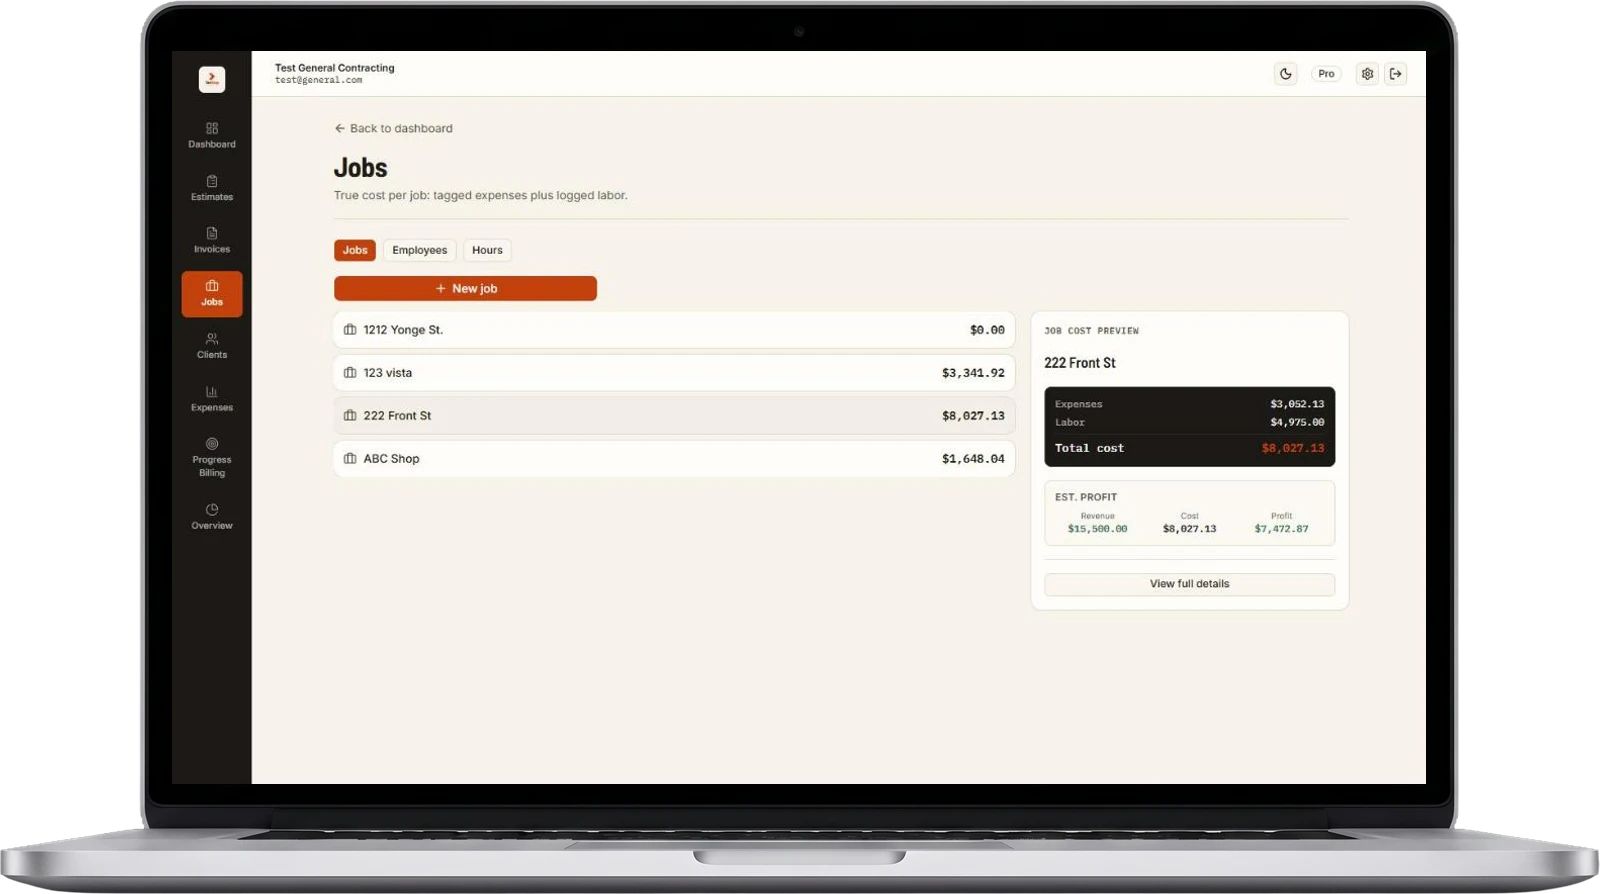
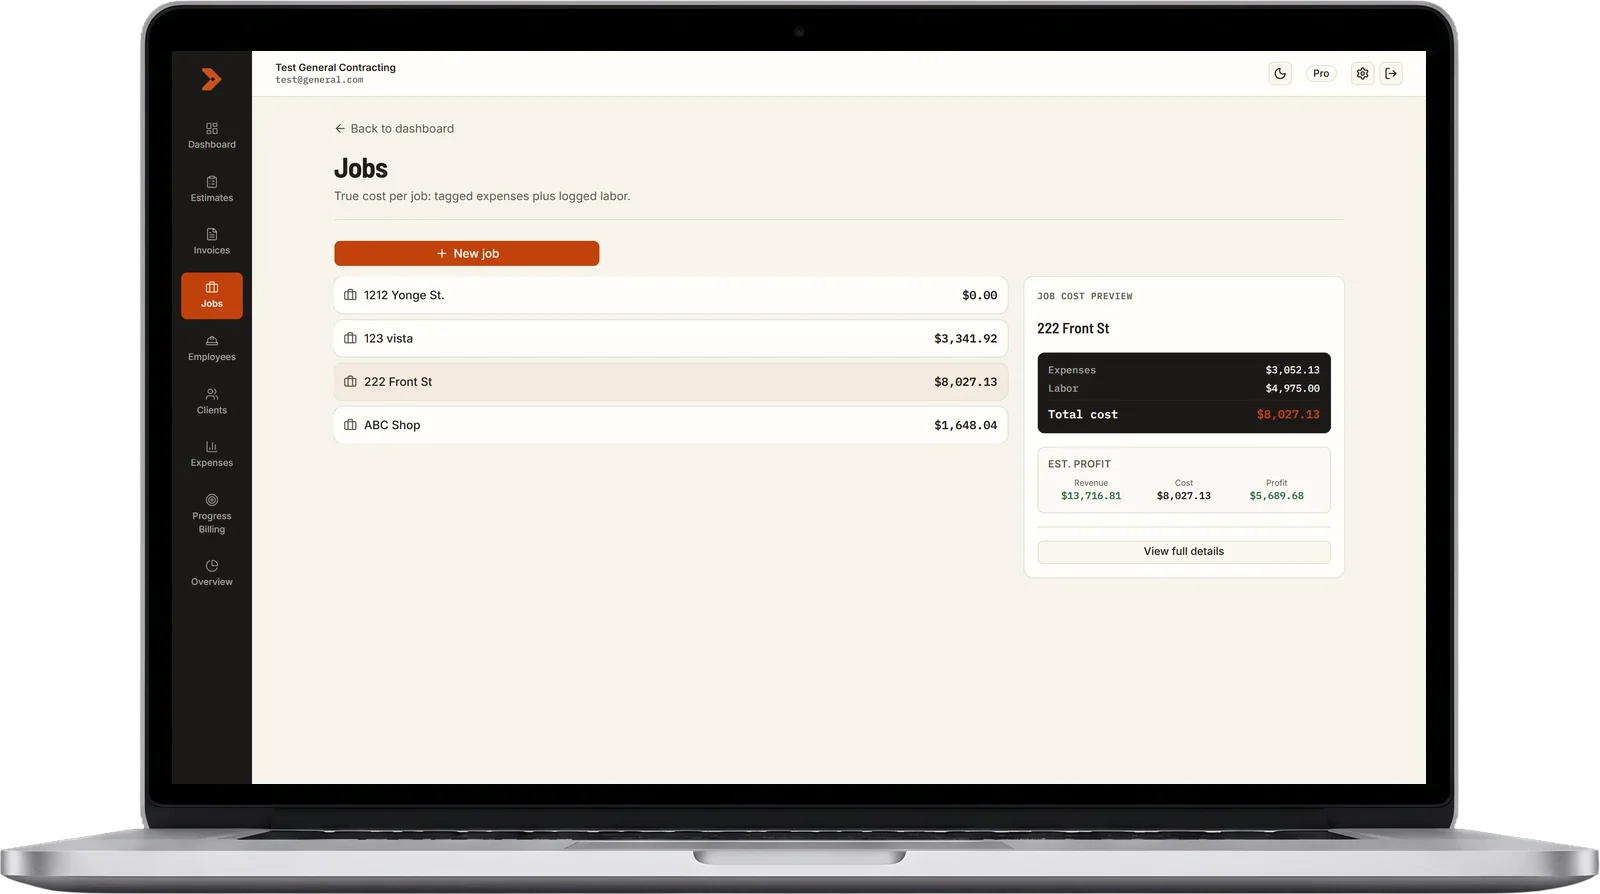
feat: marketing site - Employee Clock-In, 3x2 feature grid, refreshed Job Costing
- Homepage feature grid is now 3 x 2 on desktop with six cards: adds
  "Employee clock-in" and "Deposits & partial payments" to the existing four.
- New /features/employee-clock-in page, added to the shared FEATURE_PAGES
  list right after Job Costing, so it appears in the Features dropdown and
  the /features index (whose odd last card now spans the full row).
  FeatureDetail gets a hideScreenshot option that skips the screenshot block
  entirely (no placeholder) for pages without real screenshots yet.
- "Included on every plan" notes for Employee Clock-In and Job Costing are
  built from PLAN_LIMITS via plan-cap-copy.ts (unit-tested), so the wording
  can't drift from the enforced caps. Job Costing previously said "Available
  on the Pro plan", which contradicted the pricing table (every plan, capped
  at 1 / 5 / unlimited jobs).
- Job Costing screenshots retaken against the current app (Employees tab in
  the sidebar, no Jobs/Employees/Hours toggle): the new capture is composited
  into the existing laptop and phone frames; the phone's header and bottom bar
  are unchanged so only its content area was replaced. Alt text no longer
  mentions the old tabs.

Verified in the browser: homepage grid (3 columns, 6 cards), /features index
and dropdown (7 entries, correct order), the new page (no screenshot block),
Job Costing mobile and desktop images, and that the HST and Accountant Export
pages still render their screenshots.

diff --git a/src/app/features/employee-clock-in/page.tsx b/src/app/features/employee-clock-in/page.tsx
@@ -1,0 +1,53 @@
+import type { Metadata } from "next";
+import { Clock } from "lucide-react";
+import { FeatureDetail } from "@/components/landing/feature-detail";
+import { PLAN_LIMITS } from "@/lib/plan-limits";
+import { everyPlanCapNote } from "@/lib/plan-cap-copy";
+
+export const metadata: Metadata = {
+  title: "Employee Clock-In — TaxSnap",
+};
+
+export default function EmployeeClockInPage() {
+  return (
+    <FeatureDetail
+      icon={Clock}
+      title="Employee Clock-In"
+      tagline="Your crew logs their own hours, and you get accurate labor cost on every job without typing a number."
+      note={everyPlanCapNote("employee", {
+        free: PLAN_LIMITS.free.employees,
+        basic: PLAN_LIMITS.basic.employees,
+        pro: PLAN_LIMITS.pro.employees,
+      })}
+      // No real screenshots yet - the whole block is skipped (no placeholder).
+      // When they exist: drop hideScreenshot and pass mobileSrc, desktopSrc
+      // and screenshotAlt, like the other feature pages.
+      hideScreenshot
+      howItWorks={[
+        {
+          title: "One link for the whole crew",
+          description: "Share the sign-in link once.",
+        },
+        {
+          title: "A personal PIN for each person",
+          description: "Each person picks their name and enters their own 4-digit PIN.",
+        },
+        {
+          title: "Clock in, clock out",
+          description:
+            "They pick a job and tap Clock in, then Clock out when they're done. TaxSnap records the times and works out the hours.",
+        },
+        {
+          title: "Hours land on the job",
+          description:
+            "The hours show up on your Hours page and on the job's cost, ready to review.",
+        },
+      ]}
+      paragraphs={[
+        "Employees see only their own recent hours, with no access to invoices, receipts, other employees or settings.",
+        "You see who's clocked in right now. A forgotten clock-out is flagged, and you can close it, correct either time, or delete a session.",
+        "Anything you change is marked, so edited sessions stay easy to tell apart.",
+      ]}
+    />
+  );
+}

diff --git a/src/components/landing/feature-detail.tsx b/src/components/landing/feature-detail.tsx
@@ -26,7 +26,14 @@ export interface FeatureDetailProps {
   mobileSrc?: string;
   /** Omit when no real screenshot exists yet - renders a placeholder instead. */
   desktopSrc?: string;
-  screenshotAlt: string;
+  /** Required whenever the screenshot block is shown. */
+  screenshotAlt?: string;
+  /**
+   * Skip the screenshot section entirely (no placeholder) - for a page whose
+   * real screenshots aren't ready yet. Flip it off and pass the src props
+   * once they exist.
+   */
+  hideScreenshot?: boolean;
 }
 
 // Shared shell for every /features/<slug> detail page - same header/CTA/
@@ -47,7 +54,8 @@ export function FeatureDetail({
   paragraphs,
   mobileSrc,
   desktopSrc,
-  screenshotAlt,
+  screenshotAlt = "",
+  hideScreenshot = false,
 }: FeatureDetailProps) {
   return (
     <main className="flex flex-1 flex-col bg-background">
@@ -80,16 +88,18 @@ export function FeatureDetail({
         )}
       </section>
 
-      <section className="border-t border-border">
-        <div className="mx-auto w-full max-w-5xl px-4 py-10 sm:px-8">
-          <FeatureScreenshotToggle
-            mobileSrc={mobileSrc}
-            desktopSrc={desktopSrc}
-            alt={screenshotAlt}
-            placeholderIcon={<Icon className="h-8 w-8 text-muted-foreground/60" />}
-          />
-        </div>
-      </section>
+      {!hideScreenshot && (
+        <section className="border-t border-border">
+          <div className="mx-auto w-full max-w-5xl px-4 py-10 sm:px-8">
+            <FeatureScreenshotToggle
+              mobileSrc={mobileSrc}
+              desktopSrc={desktopSrc}
+              alt={screenshotAlt}
+              placeholderIcon={<Icon className="h-8 w-8 text-muted-foreground/60" />}
+            />
+          </div>
+        </section>
+      )}
 
       {howItWorks && howItWorks.length > 0 && (
         <section className="border-t border-border">

diff --git a/src/app/features/job-costing/page.tsx b/src/app/features/job-costing/page.tsx
@@ -1,6 +1,8 @@
 import type { Metadata } from "next";
 import { Briefcase } from "lucide-react";
 import { FeatureDetail } from "@/components/landing/feature-detail";
+import { PLAN_LIMITS } from "@/lib/plan-limits";
+import { everyPlanCapNote } from "@/lib/plan-cap-copy";
 
 export const metadata: Metadata = {
   title: "Job Costing — TaxSnap",
@@ -12,10 +14,14 @@ export default function JobCostingPage() {
       icon={Briefcase}
       title="Job Costing"
       tagline="Track profitability per job. Log materials, assign labor hours, link the invoice — see your real margin on every project, not just a guess."
-      note="Available on the Pro plan."
+      note={everyPlanCapNote("job", {
+        free: PLAN_LIMITS.free.jobs,
+        basic: PLAN_LIMITS.basic.jobs,
+        pro: PLAN_LIMITS.pro.jobs,
+      })}
       mobileSrc="/screenshots/jobs-mobile.webp"
       desktopSrc="/screenshots/jobs-desktop.webp"
-      screenshotAlt="The Jobs screen in TaxSnap, listing each job with tabs for Employees and Hours, and on desktop a cost preview showing expenses, labor, revenue, and estimated profit"
+      screenshotAlt="The Jobs screen in TaxSnap, listing each job with its total cost, and on desktop a cost preview showing expenses, labor, and estimated profit"
       paragraphs={[
         "Tag any receipt to a job while you're scanning it, and log employee hours against that same job as work happens. TaxSnap adds up materials and labor automatically, so you always know a job's true cost — not just what you quoted for it.",
         "Revenue is counted from payments you've actually received on invoices linked to that job, pro-rated for deposits — not the full invoice total the moment it's sent. That means your estimated profit reflects money in hand, not money you're still waiting on.",

diff --git a/src/app/page.tsx b/src/app/page.tsx
@@ -1,8 +1,10 @@
 import Link from "next/link";
 import {
   Camera,
+  Clock,
   FileSignature,
   FileSpreadsheet,
+  HandCoins,
   Layers,
   Receipt,
   Sparkles,
@@ -177,10 +179,22 @@ const GENERAL_FEATURES = [
       "Materials, labor, and the payments you've actually received, netted out for every job.",
   },
   {
+    icon: Clock,
+    title: "Employee clock-in",
+    description:
+      "Your crew clocks in and out from their own phone with a personal PIN. No accounts to set up and nothing for you to type in, and the hours land on the right job.",
+  },
+  {
     icon: Layers,
     title: "Progress billing",
     description:
       "Bill a job in draws and see what's invoiced, received, and still owed against the contract.",
+  },
+  {
+    icon: HandCoins,
+    title: "Deposits & partial payments",
+    description:
+      "Record deposits and partial payments as they arrive. TaxSnap counts them for HST in the period you actually got paid.",
   },
   {
     icon: FileSignature,
@@ -371,7 +385,7 @@ export default function Home() {
           <h2 className="font-heading text-2xl font-bold">
             Everything a one-person business needs, nothing it doesn&apos;t.
           </h2>
-          <div className="mt-6 grid gap-4 sm:grid-cols-2">
+          <div className="mt-6 grid gap-4 sm:grid-cols-2 lg:grid-cols-3">
             {GENERAL_FEATURES.map((feature) => (
               <div
                 key={feature.title}

diff --git a/src/lib/plan-cap-copy.ts b/src/lib/plan-cap-copy.ts
@@ -1,0 +1,23 @@
+// Marketing copy for "included on every plan, with a limit" notes, built from
+// the real caps in plan-limits.ts so the wording can't drift from what the app
+// enforces (e.g. "1 employee on Free, up to 5 on Plus, unlimited on Pro").
+// Kept import-free so it can be unit-tested with `node --test`.
+
+export interface TierCaps {
+  free: number | null;
+  basic: number | null;
+  pro: number | null;
+}
+
+function count(n: number, noun: string): string {
+  return `${n} ${noun}${n === 1 ? "" : "s"}`;
+}
+
+// null = no cap (unlimited). The Free number is stated outright; paid tiers
+// read "up to N" (or "unlimited"), matching how the pricing table words them.
+export function everyPlanCapNote(noun: string, caps: TierCaps): string {
+  const free = caps.free === null ? `unlimited ${noun}s` : count(caps.free, noun);
+  const plus = caps.basic === null ? "unlimited" : `up to ${caps.basic}`;
+  const pro = caps.pro === null ? "unlimited" : `up to ${caps.pro}`;
+  return `Included on every plan: ${free} on Free, ${plus} on Plus, ${pro} on Pro.`;
+}

diff --git a/src/lib/plan-cap-copy.test.ts b/src/lib/plan-cap-copy.test.ts
@@ -1,0 +1,24 @@
+import { test } from "node:test";
+import assert from "node:assert/strict";
+import { everyPlanCapNote } from "./plan-cap-copy.ts";
+
+test("employees: 1 on Free, up to 5 on Plus, unlimited on Pro", () => {
+  assert.equal(
+    everyPlanCapNote("employee", { free: 1, basic: 5, pro: null }),
+    "Included on every plan: 1 employee on Free, up to 5 on Plus, unlimited on Pro.",
+  );
+});
+
+test("pluralizes the Free number", () => {
+  assert.equal(
+    everyPlanCapNote("job", { free: 3, basic: 10, pro: null }),
+    "Included on every plan: 3 jobs on Free, up to 10 on Plus, unlimited on Pro.",
+  );
+});
+
+test("a capped Pro tier is stated as a cap, and an uncapped Free as unlimited", () => {
+  assert.equal(
+    everyPlanCapNote("job", { free: null, basic: null, pro: 50 }),
+    "Included on every plan: unlimited jobs on Free, unlimited on Plus, up to 50 on Pro.",
+  );
+});

diff --git a/src/lib/feature-pages.ts b/src/lib/feature-pages.ts
@@ -1,5 +1,6 @@
 import {
   Briefcase,
+  Clock,
   FileArchive,
   FileText,
   Landmark,
@@ -42,6 +43,13 @@ export const FEATURE_PAGES: FeaturePage[] = [
     description:
       "Track profitability per job. Log materials, assign labor hours, link the invoice — see your real margin on every project, not just a guess.",
     href: "/features/job-costing",
+  },
+  {
+    icon: Clock,
+    title: "Employee Clock-In",
+    description:
+      "Your crew clocks in and out of jobs from their own phone with a personal PIN. No accounts to manage, no hours to type in, and every session lands on the right job.",
+    href: "/features/employee-clock-in",
   },
   {
     icon: Layers,

diff --git a/src/app/features/page.tsx b/src/app/features/page.tsx
@@ -34,7 +34,7 @@ export default function FeaturesPage() {
               <Link
                 key={feature.title}
                 href={feature.href}
-                className="group flex flex-col gap-3 rounded-lg border border-border bg-card p-5 transition-colors hover:border-primary"
+                className="group flex flex-col gap-3 rounded-lg border border-border bg-card p-5 transition-colors hover:border-primary sm:[&:last-child:nth-child(odd)]:col-span-2"
               >
                 <feature.icon className="h-5 w-5 text-primary" />
                 <h2 className="font-heading text-lg font-bold">
